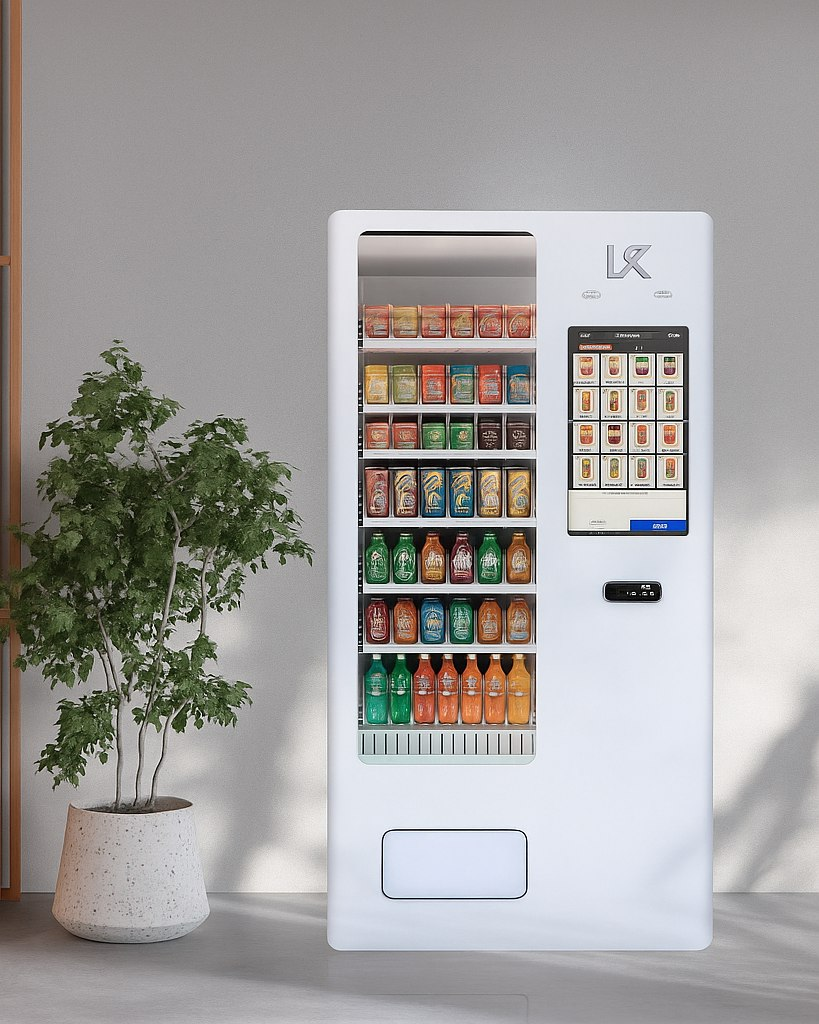
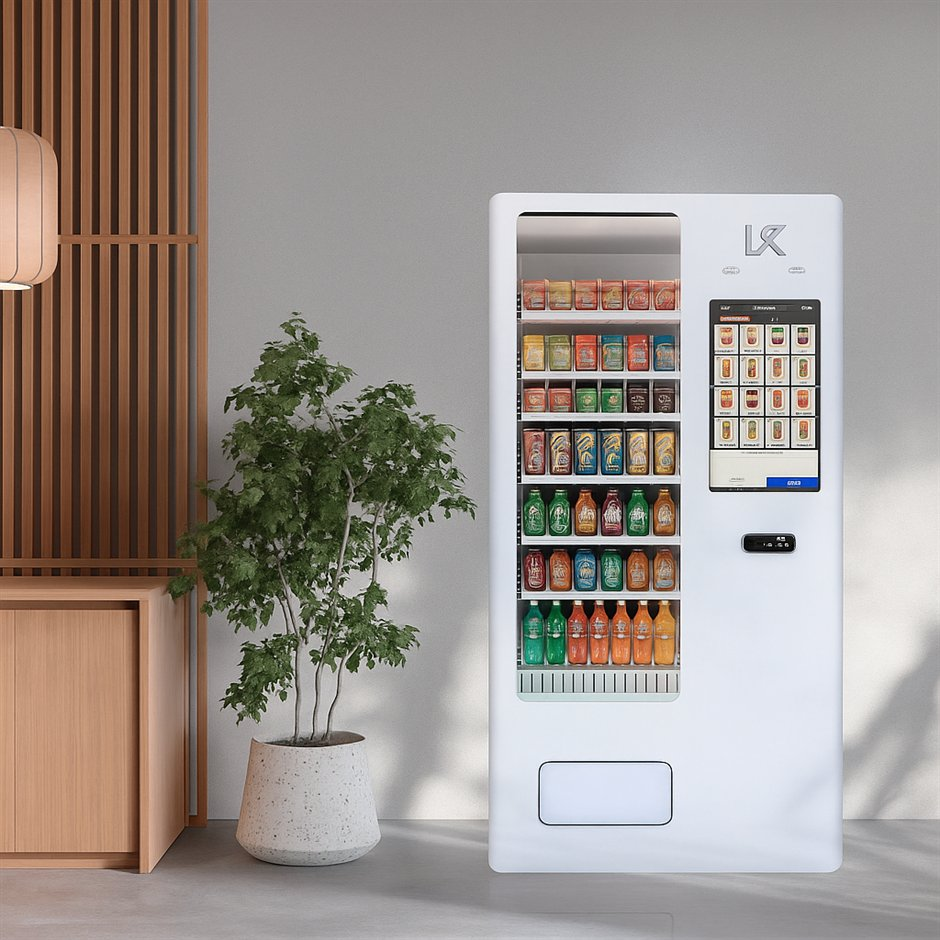
홈 히어로 사진 잘림 수정 — 전체 화면이 보이도록
- 원본(1024x1024) 전체 컷으로 교체. 기존 파일은 좌우가 잘린 819x1024 였음
- aspect-ratio:4/5 + object-fit:cover 제거 (이 둘이 자판기 위아래를 잘라내고 있었음)
- max-width 430 -> 520 (히어로 우측 칼럼 폭에 맞춤), 모바일 320 -> 400

diff --git a/index.html b/index.html
@@ -28,11 +28,11 @@
 <style>
 /* 히어로 대표 사진 */
 .hero__art img{
-  display:block;width:100%;max-width:430px;margin-inline:auto;aspect-ratio:4/5;object-fit:cover;
+  display:block;width:100%;max-width:520px;height:auto;margin-inline:auto;
   border-radius:var(--r);background:var(--white);
   box-shadow:0 38px 60px -28px rgba(60,48,34,.42),0 2px 10px rgba(60,48,34,.08);
 }
-@media (max-width:980px){ .hero__art img{max-width:320px} }
+@media (max-width:980px){ .hero__art img{max-width:400px} }
 </style>
   <script src="analytics.js" defer></script>
 </head>
@@ -89,7 +89,7 @@
       </div>
     </div>
     <div class="hero__art">
-      <img src="assets/img/hero-vending.jpg" alt="실내 공간에 설치한 무인자판기" width="819" height="1024" fetchpriority="high" decoding="async">
+      <img src="assets/img/hero-vending.jpg" alt="실내 공간에 설치한 무인자판기" width="940" height="940" fetchpriority="high" decoding="async">
     </div>
   </div>
 </section>
